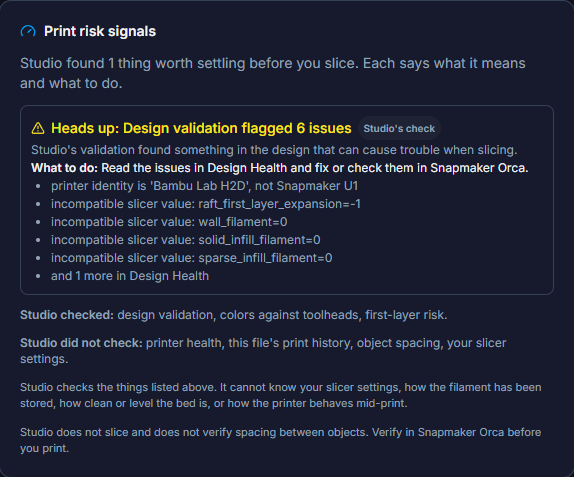
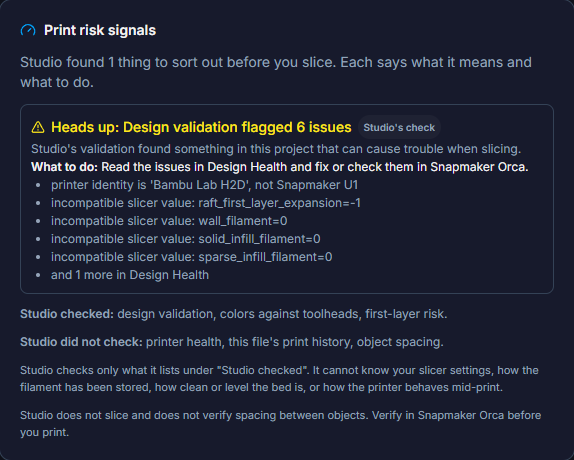
docs: fund docs no longer advertise the removed percentages; whole-page Edge check (#92)

diff --git a/docs/fund/SUBMISSION.md b/docs/fund/SUBMISSION.md
@@ -11,7 +11,7 @@ desktop companion for the Snapmaker U1. It reads any model (STL / 3MF, including
 foreign Bambu/Orca projects), and before a single layer is sliced it answers the
 six questions a maker actually has, in one screen:
 
-1. **Will it print?** 2. **What will it cost?** 3. **What should I sell it for?**
+1. **What's at risk?** 2. **What will it cost?** 3. **What should I sell it for?**
 4. **What's my profit?** 5. **What's the biggest risk?** 6. **What do I do next?**
 
 It does this through **Studio Intelligence** — a set of read-only "Doctors"
@@ -51,19 +51,18 @@ and hands a clean, validated project to Orca.
 ## Innovation narrative
 The novel contribution is **synthesis**: not another slicer or telemetry viewer,
 but an intelligence layer that (a) reads the U1's own open Moonraker metadata and
-geometry, (b) runs specialised read-only analyses, (c) folds them into a single
-score + money headline + biggest-risk + next-action, and (d) attaches the
-community's known fix to each risk with a confidence level and an *Expected
-Improvement* estimate. No tool in the U1 ecosystem does cost→pricing→profit
+geometry, (b) runs specialised read-only analyses, (c) folds them into one
+list of risks + money headline + biggest-risk + next-action, and (d) attaches the
+community's known fix to each risk with a confidence level. No tool in the U1 ecosystem does cost→pricing→profit
 intelligence, pre-slice out-of-bounds explanation, or community-knowledge-backed
 fixes. This expands the Snapmaker ecosystem by making the open U1 approachable to
 first-time and business users.
 
 ## Screenshots (`docs/brand/shots/`)
 - `dashboard_final.png` — branded dashboard, Doctors as first-class, Demo entry.
-- `demo_report.png` / `report_full.png` — the Studio Intelligence Report: score,
-  five headline metrics, Expected Improvement, biggest risk, next action,
-  "why not Orca?", and per-risk community fixes.
+- `demo_report.png` / `report_full.png` — the Studio Intelligence Report: headline
+  metrics, biggest risk, next action, "why not Orca?", and per-risk community fixes.
+  (The screenshots predate #92 and show a score and an expected-improvement percentage that Studio no longer displays.)
 - `why_studio.png` — outcome-based positioning vs Orca & Fluidd.
 - `before_dashboard.png` / `after_dashboard.png` — brand evolution.
 

diff --git a/docs/fund/DEMO_SCRIPT.md b/docs/fund/DEMO_SCRIPT.md
@@ -12,8 +12,8 @@ warm. Window at ~1280×860, dark theme (default).
 |---|---|---|---|
 | 0:00–0:06 | **Launch** the app | Branded splash → dark Dashboard, sidebar mark + "The Intelligence Layer" | "This is Snapmaker Studio — the intelligence layer for open 3D printing." |
 | 0:06–0:12 | Click **"See a 10-second demo"** | Demo badge appears; the Studio Intelligence Report renders inline | "One click — no printer, no file needed." |
-| 0:12–0:24 | Let the **Intelligence Report** sit | Studio Score (78), four metrics: risks found, cost, sell-for, margin, printer | "One screen answers it: will it print, what it costs, what to sell it for, my profit." |
-| 0:24–0:32 | Point to **Expected Improvement + biggest risk** | "72% → 90% after fixes (estimate)"; red biggest-risk banner; next action | "It found the real risk — too big for the bed — and the exact fix: scale to 94%." |
+| 0:12–0:24 | Let the **Intelligence Report** sit | Metrics: risks found, material cost, printer | "One screen shows what's at risk, what it costs, what to sell it for, my profit." |
+| 0:24–0:32 | Point to **biggest risk + next action** | red biggest-risk banner; next action | "It found the real risk - too big for the bed - and the exact fix: scale to 94%." |
 | 0:32–0:42 | Expand **"See risks & Doctor findings"** → a **Community Fix** | Risk with "Community fix · High confidence" + sources (r/snapmaker…) | "And it brings the community's known fix in-app — no more hunting Facebook groups." |
 | 0:42–0:50 | Point to **Cost / Pricing / Profit** (headline + Doctors as evidence) | Cost $6.40 · Sell $11.84 · Margin 46% · Profit/print | "Cost, a fair selling price, and profit — nothing else in the U1 world does this." |
 | 0:50–0:60 | Click **"Why Studio?"** | Outcome table: Orca / Fluidd / Studio | "Orca slices, Fluidd monitors — Studio helps decide what to fix before you print. That's the gap we fill." |

diff --git a/docs/testing/readiness-findings/README.md b/docs/testing/readiness-findings/README.md
@@ -6,13 +6,13 @@ Real Studio engine and this branch's own web UI, driven in **Microsoft Edge (Chr
 is reachable: the only printer address used is this machine's own, where nothing listens, and any engine request naming another host
 or discovery is aborted and fails the run.
 
-**Result: 16/16 checks passed**, in light and dark (`results.json`).
+**Result: 24/24 checks passed**, in light and dark, including a scan of the whole page after the Intelligence Report has loaded (no score, "/ 100", percentage, readiness rating or success verdict; the only percentages left are measured geometry and the pricing margin, and the Project Doctor step heading "Print-Readiness" has no score) (`results.json`).
 
 | Screenshot | What it shows |
 |---|---|
 | [01 light](01-signals-found-light-card.png), [01 dark](01-signals-found-dark-card.png) | The card for a project with a signal: what it found, what it means, what to do, the evidence kind ("Studio's check"), then what Studio checked, what it did not check, and what it cannot know. No percentage, band or verdict. |
 | [02 light](02-nothing-flagged-light-card.png), [02 dark](02-nothing-flagged-dark-card.png) | A model with no signals: says exactly what the checks covered and what they did not, and that this is not a sign the print will succeed. |
-| `*-page.png` | The same screens in the surrounding page, as a person sees them. |
+| `*-page.png` | The whole page, taken after the Intelligence Report loaded: it shows "Risks found" and no score hero. |
 
 Checked on each: the card lists signals with "What to do"; names its evidence kind; has "Studio checked" and "Studio did not check"
 lines (printer health and print history are listed as not checked because no printer answered); says Studio cannot know slicer

diff --git a/CHANGELOG.md b/CHANGELOG.md
@@ -9,10 +9,15 @@ All notable changes to this project are documented here. The format is based on
 ### Changed
 - **The "Print readiness (estimate)" percentage is gone (#92).** Nothing calibrated it against real
   print outcomes, so a percentage and a "Likely to print" verdict could read as a chance of
-  success. Design Health now shows **Print risk signals**: each signal Studio found, what it means,
-  what to do and what kind of evidence it rests on, then what Studio checked and did not check.
-  It never shows a percentage or a verdict. The Intelligence Report no longer shows a readiness
-  rating or an "expected success after fixes" figure; it shows how many risks were found.
+  success. The Workspace now shows a **Print risk signals** card: each signal Studio found, what it
+  means, what to do and what kind of evidence it rests on, then what Studio checked and did not
+  check. It never shows a percentage or a verdict.
+- **The Intelligence Report no longer has a score.** The large "/ 100" Studio score, the
+  readiness rating and the "expected success after fixes" figure are removed (the score could read
+  100 for a project with validation issues). The report shows how many risks were found, the
+  biggest risk and the next step. A printer that does not answer is no longer counted as healthy
+  or as checked, and the printer-health note "50% of recent prints failed" now reads
+  "5 of the last 10 prints failed".
 
 ## [1.5.1] - 2026-10-09
 

diff --git a/docs/fund/SCORECARD.md b/docs/fund/SCORECARD.md
@@ -45,7 +45,7 @@ flowchart LR
 |---|---|
 | `dashboard_final.png` | Branded dashboard, Doctors first-class, Demo entry |
 | `demo_report.png` | Studio Intelligence Report (demo) |
-| `report_full.png` | Full Report: score, metrics, Expected Improvement, risks + community fixes, why-not-Orca |
+| `report_full.png` | Full Report: metrics, risks + community fixes, why-not-Orca (screenshot predates #92 and shows a score and an Expected Improvement figure Studio no longer displays) |
 | `why_studio.png` | Outcome comparison vs Orca & Fluidd |
 | `before_dashboard.png` / `after_dashboard.png` | Brand evolution |
 
@@ -56,8 +56,8 @@ flowchart LR
 3. **"Why Studio?"** -> positioning.
 Every screen reinforces the Intelligence Layer narrative (sidebar mark + tagline on
 all; "Powered by Studio Intelligence" on the Report; outcomes framing on Why Studio).
-Demo Mode verified: `/demo_report` returns score 78 + Expected Improvement + 3
-risks with community fixes; renders with no printer and no file.
+Demo Mode verified: `/demo_report` returns the risks with community fixes (it
+returned a score and an Expected Improvement before #92 removed both); renders with no printer and no file.
 
 ## Scorecard
 

diff --git a/docs/fund/REVIEWER_ONEPAGER.md b/docs/fund/REVIEWER_ONEPAGER.md
@@ -13,9 +13,10 @@ were never going to work.
 
 ### What Studio does
 Before a layer is sliced, one screen — the **Studio Intelligence Report** — answers:
-**Will it print? · What will it cost? · What to sell it for? · Profit? · Biggest
+**What's at risk? · What will it cost? · What to sell it for? · Profit? · Biggest
 risk? · Next action?** Each risk carries the **community's known fix** with a
-confidence level, plus an **Expected Improvement** estimate (e.g. 72% -> 90%).
+confidence level. (Earlier builds also showed an expected-improvement percentage; it was
+never calibrated and was removed in #92.)
 
 ### Why it's novel (and why it expands the ecosystem)
 No tool in the U1 world does **cost -> pricing -> profit** intelligence, **pre-slice

diff --git a/docs/fund/RELEASE_READINESS.md b/docs/fund/RELEASE_READINESS.md
@@ -22,7 +22,7 @@
   coverage is limited; the demo uses sample data so it never depends on hardware.
 - **Cost/Pricing/Profit defaults** — sensible estimates (filament price, power,
   machine wear, labour, markup tiers); user-tunable. Clearly labelled estimates.
-- **Expected Improvement** — a labelled heuristic estimate, not a guarantee.
+- **Expected Improvement** — removed in #92 (it was an uncalibrated percentage); the report now lists the risks found.
 - **Community Knowledge** — curated knowledge base (MVP). Phase-2 reviewed
   ingestion from Reddit/GitHub/forums is designed but **not built**.
 - **Advanced (power-user) Workspace** — full-featured but denser; not the novice path.

diff --git a/docs/fund/AUDIT.md b/docs/fund/AUDIT.md
@@ -39,8 +39,8 @@ this is a *preview-only artifact*, not a bug; the packaged app was verified to
 launch, spawn its sidecar, and leave 0 orphans on close.
 
 ### Demo flow — intact
-Dashboard → "See a 10-second demo" → Studio Intelligence Report (score, metrics,
-Expected Improvement, biggest risk, next action, why-not-Orca, per-risk community
+Dashboard → "See a 10-second demo" → Studio Intelligence Report (metrics,
+biggest risk, next action, why-not-Orca, per-risk community
 fixes) → "Why Studio?" CTA. Runs with no printer and no model file.
 
 ## Issues to address (non-blocking)

diff --git a/docs/fund/METRICS.md b/docs/fund/METRICS.md
@@ -41,7 +41,7 @@ Real, verifiable numbers (no projections, no fabricated traction).
 |---|---|
 | Data sent off-device | 0 (local-first) |
 | External network calls in Demo Mode | 0 |
-| Estimates labelled as estimates | yes (cost, price, profit, Expected Improvement) |
+| Estimates labelled as estimates | yes (cost, price, profit) |
 | Fabricated values | none (unavailable signals skipped, not invented) |
 
 ## What is NOT yet measured
